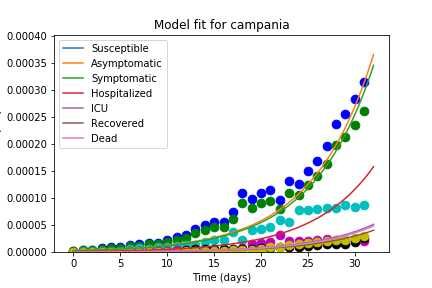
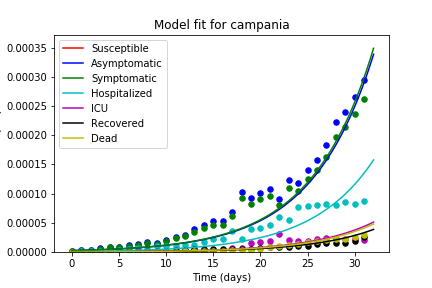
kleurtjes grafieken gefixt + andere shit

diff --git a/infectionModel_v3.0.py b/infectionModel_v3.0.py
@@ -18,50 +18,22 @@ if not os.path.exists('figures'):
 colors = ['r', 'b', 'g', 'c', 'm', 'k', 'y']
 
 # what country/region?
-country = 'campania' #pick 'iceland' for Iceland
+country = 'geneve' #pick 'iceland' for Iceland
 datafile = country + '_data.csv'
 parameterfile = country + '_parameters.txt'
-
-
-#Declaration of the input variables
-
-input_dict = file_to_dict(parameterfile)    
-vals = np.fromiter(input_dict.values(), dtype=float)
-
-#sorry for this mess feel free to make a function of this
-params = Parameters() #special type of parameters as defined by the lmfit module
-params.add('r_meeting1', value=vals[0], vary=True, min=0)
-params.add('r_meeting2', value=vals[1], vary=True,min=0)
-params.add('r_meeting3', value=vals[2], vary=True,min=0)
-params.add('r_meeting4', value=vals[3], vary=True,min=0)
-params.add('r_infection1', value=vals[4], vary=True,min=0)
-params.add('r_infection2', value=vals[5], vary=True,min=0)
-params.add('r_infection3', value=vals[6], vary=True,min=0)
-params.add('r_infection4', value=vals[7], vary=True,min=0)
-params.add('r_sym', value=vals[8], vary=True,min=0)
-params.add('r_hos', value=vals[9], vary=True,min=0)
-params.add('r_d1', value=vals[10], vary=True,min=0)
-params.add('r_d2', value=vals[11], vary=True,min=0)
-params.add('r_im1', value=vals[12], vary=True,min=0)
-params.add('r_im2', value=vals[13], vary=True,min=0)
-params.add('r_im3', value=vals[14], vary=True,min=0)
-params.add('r_ic', value=vals[15], vary=True,min=0)
-params.add('r_rehos', value=vals[16], vary=True,min=0)
-params.add('n0_susc', value=vals[17], vary=False)
-params.add('n0_inf1', value=vals[18], vary=False)
-params.add('n0_inf2', value=vals[19], vary=False)
-params.add('n0_inf3', value=vals[20], vary=False)
-params.add('n0_inf4', value=vals[21], vary=False)
-params.add('n0_rec', value=vals[22], vary=False)
-params.add('n0_dead', value=vals[23], vary=False)
-params.add('n_beds', value=vals[24], vary=False)
-params.add('pop_size', value=vals[25], vary=False)
-
-n0 = [params['n0_susc'].value, params['n0_inf1'].value, params['n0_inf2'].value, params['n0_inf3'].value, params['n0_inf4'].value, params['n0_rec'].value, params['n0_dead'].value]
+input_dict = file_to_dict(parameterfile)  
 
 #loading the actual data
-country_data = data_loader(datafile,params['pop_size'].value)
+country_data = data_loader(datafile,input_dict["pop_size"])
 country_data = np.transpose(country_data)
+
+
+#Declaration of the input variables 
+vals = np.fromiter(input_dict.values(), dtype=float) #get values from dictionary
+params = parameters(vals,country_data) #define parameters, some are fixed and some are variable (see function_lib_new)
+n0 = [params['n0_susc'].value, params['n0_inf1'].value, params['n0_inf2'].value, #initial conditions
+      params['n0_inf3'].value, params['n0_inf4'].value, params['n0_rec'].value, 
+      params['n0_dead'].value]
 
 #creating the time array
 tstart = 0
@@ -69,30 +41,28 @@ tend   = 365
 tspan = (tstart, tend)
 t = np.linspace(tstart, tend, tend * 100)
 
-# making a time array for the model fitting (this is smaller than 365 days bc we have only 8 datapoints)
+# making a time array for the model fitting using the available data
 amount_of_days = country_data.shape[0]
 t_measured = np.linspace(0, amount_of_days - 1, amount_of_days)
-# cat2_measured = country_data[:,1]
 
 # fit model
 result = minimize(residual, params, args=(t_measured, country_data), method='leastsq',nan_policy='raise')  # leastsq nelder
 # check results of the fit
 data_fitted = g(np.linspace(0., amount_of_days, 100), n0, result.params)
+# display fitted statistics
+report_fit(result)
 
 # plot fitted data
 fig1, ax1 = plt.subplots()
 for i in range(0,np.size(country_data,1)):
-    ax1.scatter(t_measured, country_data[:,i], marker='o', color=colors[i], label='measured data', s=75)
-
-ax1.plot(np.linspace(0., amount_of_days, 100), data_fitted)
+    ax1.scatter(t_measured, country_data[:,i], marker='o', color=colors[i], label='measured data', s=30)
+    ax1.plot(np.linspace(0., amount_of_days, 100), data_fitted[:,i], color = colors[i])
+    
 ax1.legend(['Susceptible', 'Asymptomatic', 'Symptomatic', 'Hospitalized', 'ICU', 'Recovered', 'Dead'], loc = "upper left")
 ax1.set_title('Model fit for ' + country)
 ax1.set_ylabel('Fraction of people')
 ax1.set_xlabel('Time (days)')
 ax1.set_ylim([0, 1.1 * max(data_fitted[:, 1])])
-
-# display fitted statistics
-report_fit(result)
 
 plt.show()
 fig1.savefig('figures/Model_fit_'+ country +'.png')
@@ -109,53 +79,5 @@ ax2.set_ylabel('Fraction of people')
 ax2.set_xlabel('Time (days)')
 
 fig2.savefig('figures/Population disease model '+ country +'.png')
-
-
-#solving the system of ODEs 
-# sol = solve_ivp(populationModel, n0, tspan, args=[new_params], dense_output=True)
-# print(sol.message)
-# y = sol.sol(t)
-
-
-# #plotting the solution
-# fig1, ax1 = plt.subplots()
-
-# ax1.plot(t, y.transpose(), linewidth=3)
-# ax1.legend(['Susceptible', 'Asymptomatic', 'Symptomatic', 'Hospitalized', 'ICU', 'Recovered', 'Dead'], loc = "right")
-# ax1.set_title('Population disease model')
-# ax1.set_ylabel('Fraction of people')
-# ax1.set_xlabel('Time (days)')
-
-# fig1.savefig('figures/Population disease model_2.png')
-
-# #calculating the per day increase of cases
-# # The idea is if you have an array [1,2,3] and you want to know the increments between
-# # each element you can create an array [0, 1, 2] and subtract that from the original matrix
-# # and then you will get the differences between each consecutive element.
-# y_shift = np.zeros((len(y)-1,tend))     #empty matrix
-# endpoint = tend*100
-# y_perday = y[:,0:endpoint:100]          #Taking out the data points for each exact day
-# y_shift[:,1:] = y_perday[1:,0:tend-1:1] #Putting it in the new matrix with position shifted by 1
-# delta_y = (y_perday[1:,:] - y_shift)    #calculating the difference in cases for each category between consecutive days
-# t_days = np.linspace(tstart, tend, tend)#having a correct time array for plotting purposes
-
-# model_mse = mse_calculator(y_perday,iceland_data)
-# #rates_opt = minimize(mse_calculator(y_perday,iceland_data),r0)
-# #rates_opt = curve_fit
-
-# #calculating the error between 
-# #plotting the amount of new cases per day per group
-# fig2, ax2 = plt.subplots()
-# ax2.plot(t_days,delta_y.transpose(), linewidth = 3)
-# ax2.legend([ 'Asymptomatic', 'Symptomatic', 'Hospitalized', 'ICU', 'Recovered', 'Dead'], loc = "right")
-# ax2.set_title('New cases/day of disease')
-# ax2.set_ylabel('New cases as fraction of people')
-# ax2.set_xlabel('Time (days)')
-
-# fig2.savefig('figures/newcaserate.png')
-
-# plt.show()
-
-
 
 

diff --git a/function_lib_new.py b/function_lib_new.py
@@ -138,24 +138,32 @@ def data_loader(filename,pop_size):
   
     return(data)
 
-def mse_calculator(model,data):
-    """
-    
-    Parameters
-    ----------
-    model : Array of float
-        fractions of the population in a category at each day as calculated by the model
-    data : Array of float
-        fractions of the population in a categorty at each day as observed in real-life 
-
-    Returns
-    -------
-    mse_array: Array of float
-        mse for each day
-
-    """
-    
-    model_compare = np.delete(model,slice(np.size(data,1),np.size(model,1)),axis=1) #select only the days that you have data for to compare
-    mse = (np.square(model_compare - data)).mean(axis=0) #calculate the mse between the model and the data at each day
-    
-    return(mse)
+def parameters(vals,country_data):
+    params = Parameters() #special type of parameters as defined by the lmfit module
+    params.add('r_meeting1', value=vals[0], vary=True, min=0)
+    params.add('r_meeting2', value=vals[1], vary=True,min=0)
+    params.add('r_meeting3', value=vals[2], vary=True,min=0)
+    params.add('r_meeting4', value=vals[3], vary=True,min=0)
+    params.add('r_infection1', value=vals[4], vary=True,min=0)
+    params.add('r_infection2', value=vals[5], vary=True,min=0)
+    params.add('r_infection3', value=vals[6], vary=True,min=0)
+    params.add('r_infection4', value=vals[7], vary=True,min=0)
+    params.add('r_sym', value=vals[8], vary=True,min=0)
+    params.add('r_hos', value=vals[9], vary=True,min=0)
+    params.add('r_d1', value=vals[10], vary=True,min=0)
+    params.add('r_d2', value=vals[11], vary=True,min=0)
+    params.add('r_im1', value=vals[12], vary=True,min=0)
+    params.add('r_im2', value=vals[13], vary=True,min=0)
+    params.add('r_im3', value=vals[14], vary=True,min=0)
+    params.add('r_ic', value=vals[15], vary=True,min=0)
+    params.add('r_rehos', value=vals[16], vary=True,min=0)
+    params.add('n0_susc', value=country_data[0,0], vary=False)
+    params.add('n0_inf1', value=country_data[0,1], vary=False)
+    params.add('n0_inf2', value=country_data[0,2], vary=False)
+    params.add('n0_inf3', value=country_data[0,3], vary=False)
+    params.add('n0_inf4', value=country_data[0,4], vary=False)
+    params.add('n0_rec', value=country_data[0,5], vary=False)
+    params.add('n0_dead', value=country_data[0,6], vary=False)
+    params.add('n_beds', value=vals[24], vary=False)
+    params.add('pop_size', value=vals[25], vary=False)
+    return params
